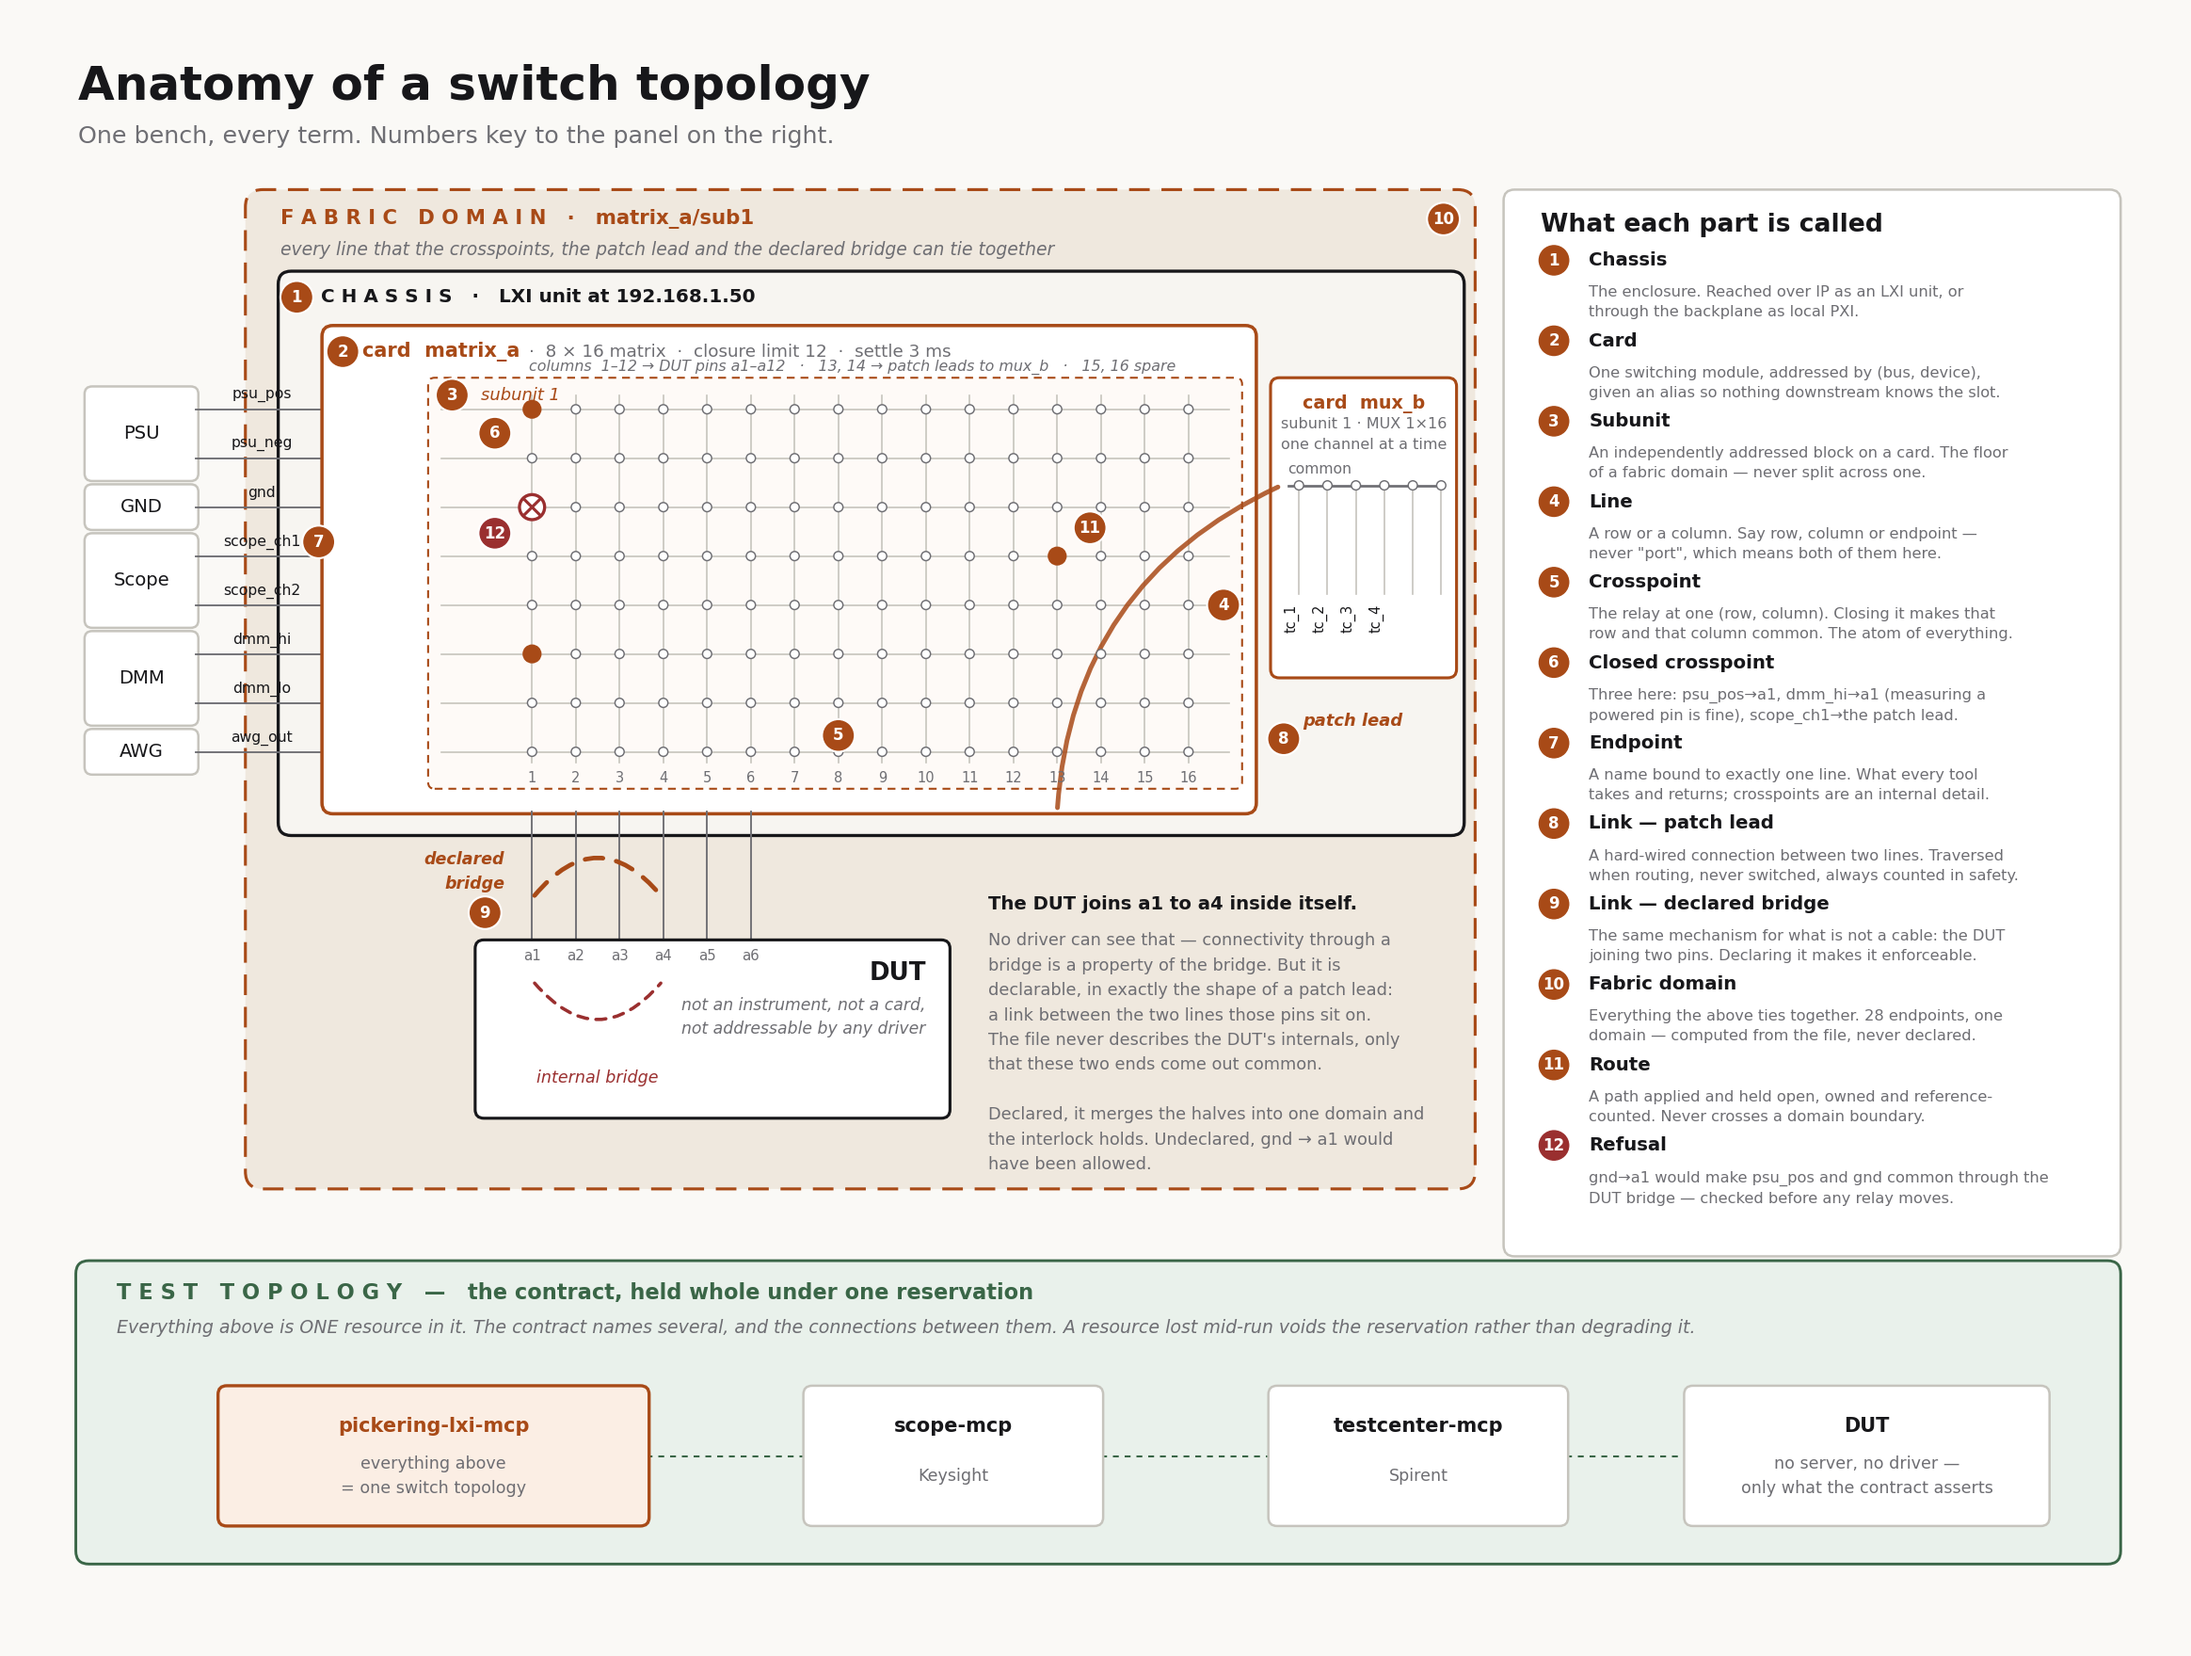
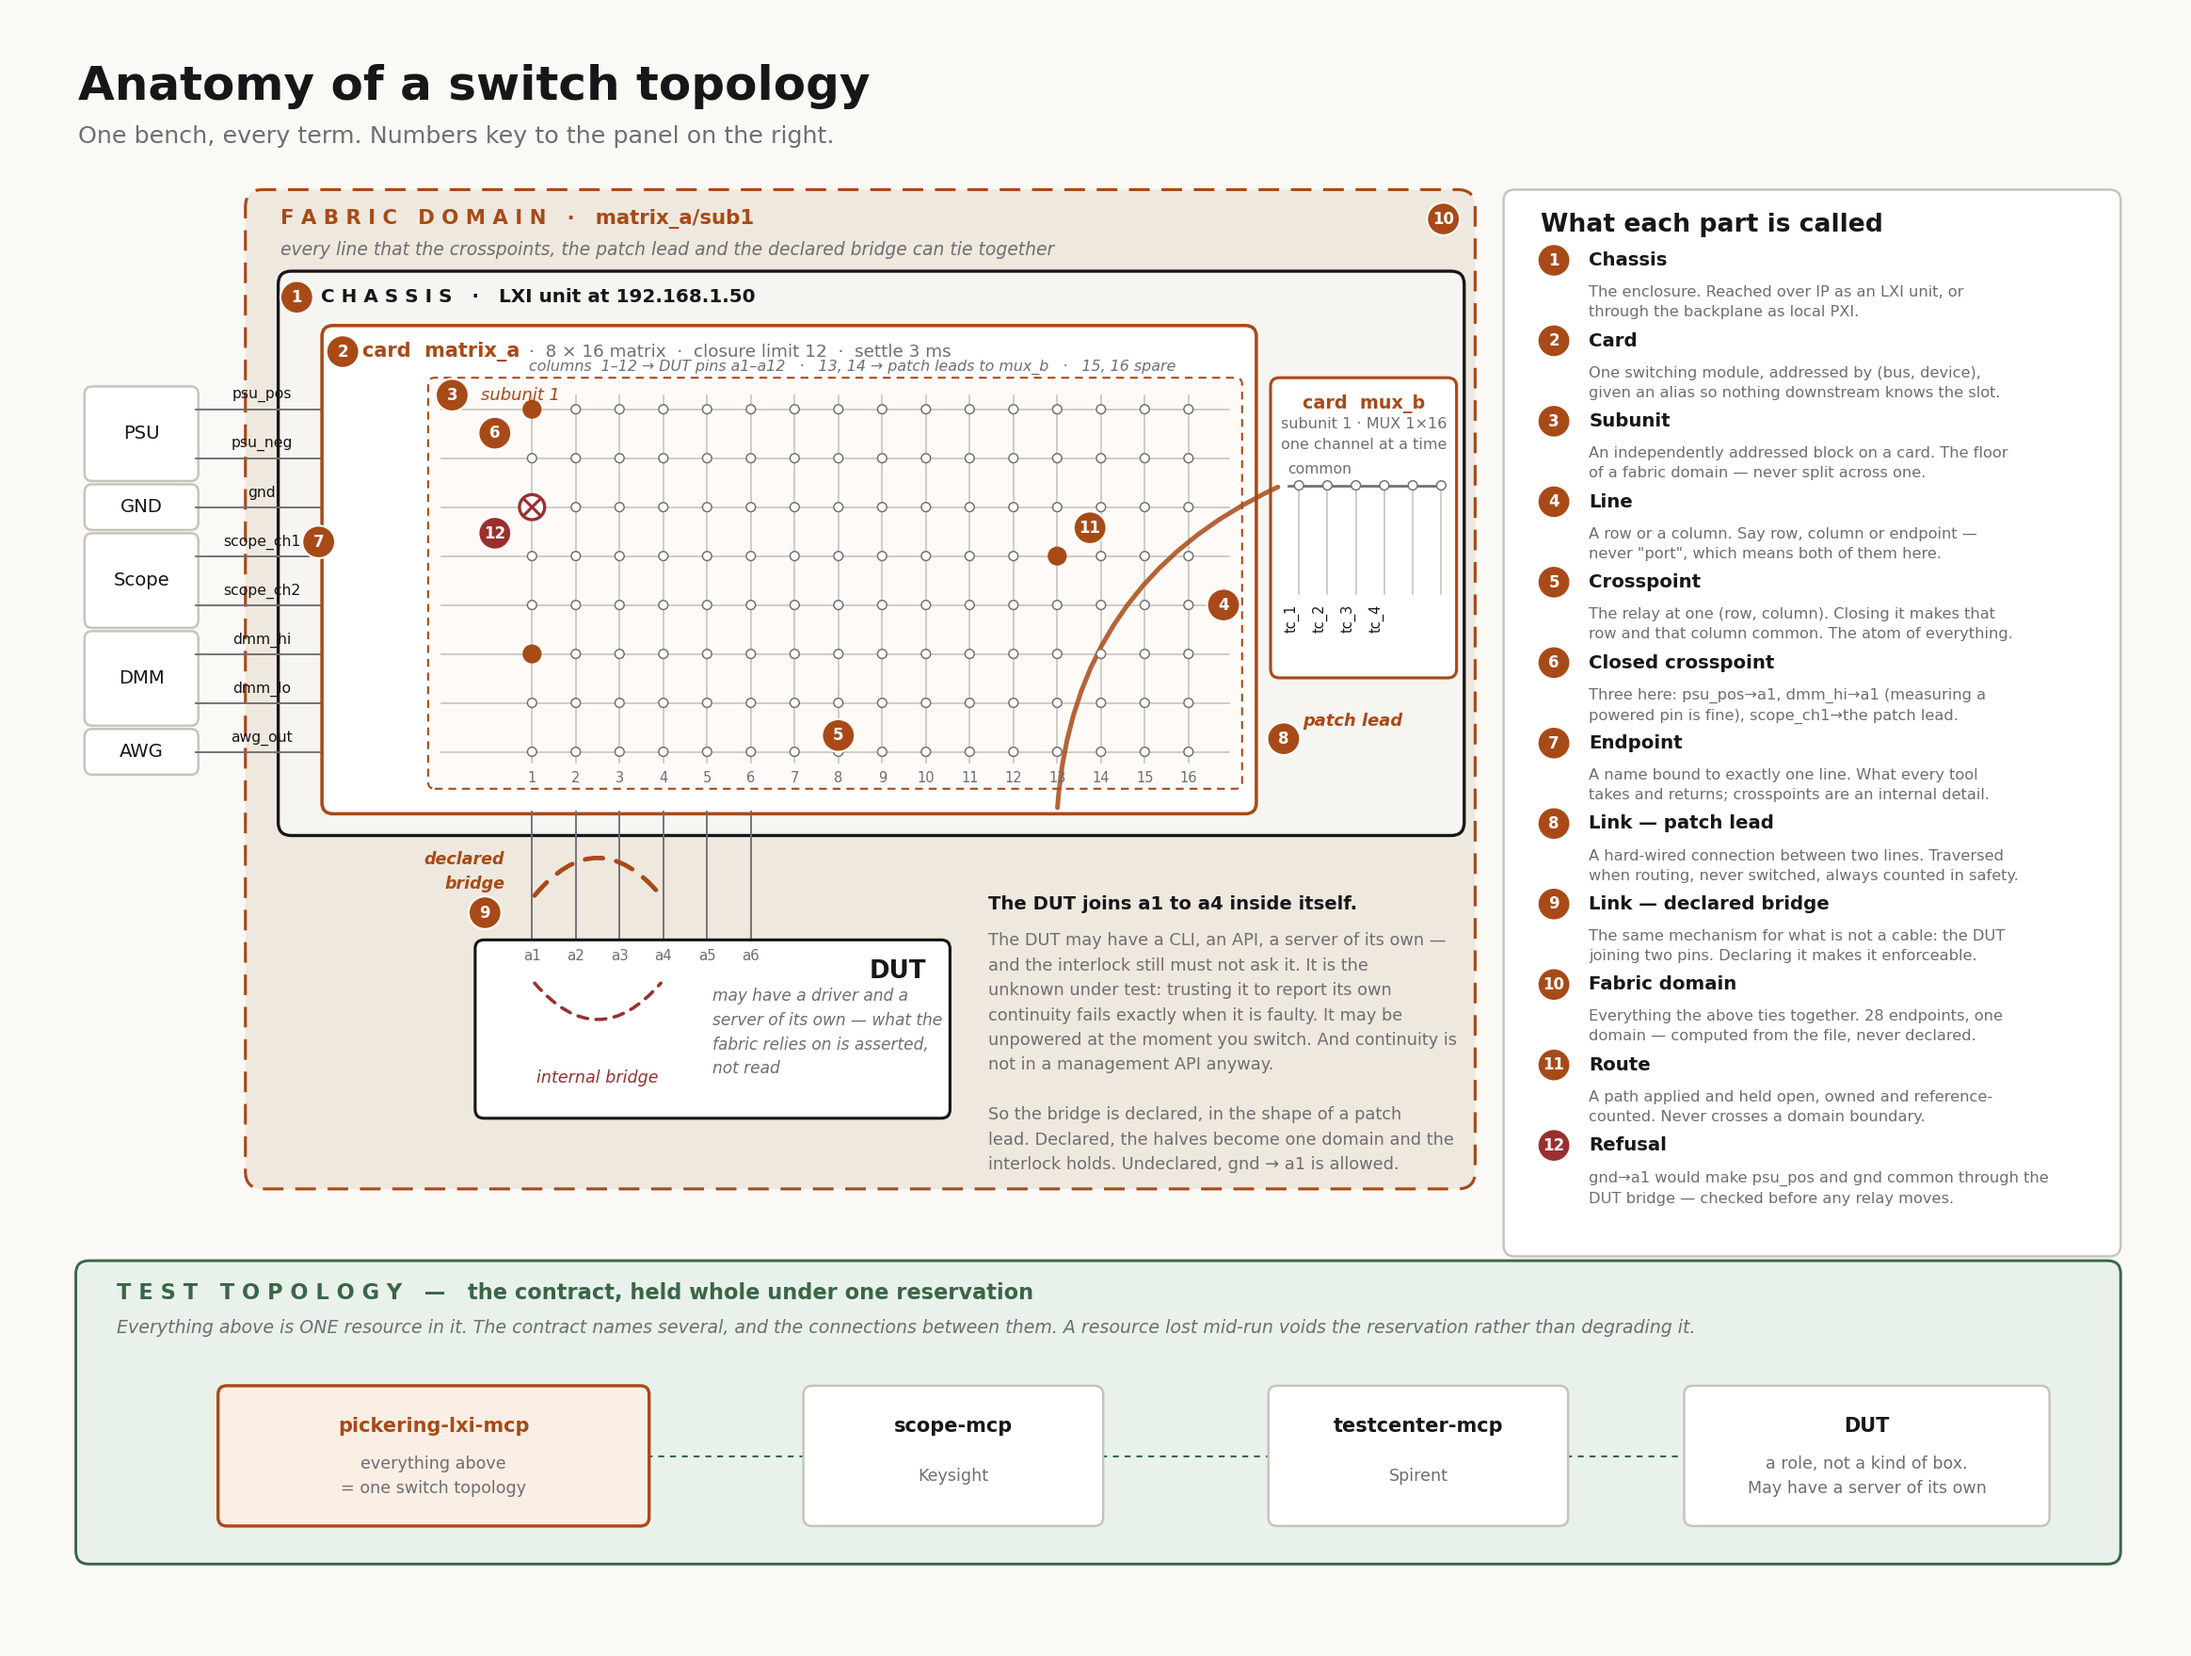
A DUT is a role, not an unreachable box; say asserted rather than unknowable
The figure claimed a DUT was "not an instrument, not a card, not addressable by
any driver". That is wrong, and wrong in a way that matters for a network lab
where the DUT is a switch with a CLI, an API and very possibly an MCP server of
its own.

Two corrections.

DUT is a role in a contract, not a class of device. The same box is a DUT this
week and part of the fixture next week. It can be a leased resource like any
other.

And what is actually special about it is not reachability but trust. The
interlock must not ask the DUT about its own continuity, for three reasons that
survive the DUT having a perfectly good API:

  circularity    the DUT is the unknown under test, so an interlock that trusts
                 its self-report fails exactly when the DUT is faulty, which is
                 the case it exists for

  availability   it may be unpowered, crashed or mid-boot at the moment you
                 switch, and those are states you switch into deliberately

  scope          continuity between two pins is not in a management API; "show
                 interface" does not say pin 3 is DC-continuous with pin 7

So the interlock is local, synchronous and offline by construction, and what it
knows about anything that is not a switch is asserted. That is what "only what
the contract asserts" was reaching for: not that the DUT is unreachable, but
that the facts the fabric's safety rests on are written down by a person rather
than read from a device.
[…]

Changed region(s): [[0.3093, 0.5526, 0.6495, 0.7061], [0.8041, 0.8596, 0.8969, 0.921]]

diff --git a/src/pickering_lxi_mcp/session.py b/src/pickering_lxi_mcp/session.py
@@ -316,6 +316,21 @@ class ChassisSession:
         On the simulator this is trivially true, which is the point: the same
         call against real hardware is what catches a topology written for last
         quarter's rack.
+
+        It also reports its own blind spot, which matters more than the checks.
+        A topology contains two kinds of fact:
+
+        *Verified* facts are read back from the driver -- which cards are there,
+        how big each subunit is, which crosspoints are closed. A wrong one is
+        caught here.
+
+        *Asserted* facts are declared by whoever wrote the file and taken on
+        trust -- that a cable runs between these two lines, that the DUT joins
+        these two pins, that this pair must never meet. No driver can confirm
+        any of them: a wire is not a register. They are load-bearing safety
+        infrastructure that nothing verifies, so a report that listed only what
+        it checked would leave the reader more confident than the evidence
+        allows.
         """
 
         actual = {card.alias: card for card in self.backend.cards()}
@@ -342,7 +357,38 @@ class ChassisSession:
             problems.append(f"card {alias!r} is in the chassis but not in the topology")
 
         problems.extend(self._vacuous_rules())
-        return {"ok": not problems, "problems": problems}
+        return {
+            "ok": not problems,
+            "problems": problems,
+            "verified": [
+                f"{len(self.topology.cards)} card(s) present and the right shape",
+                "every subunit's rows and columns match what the driver reports",
+            ],
+            "asserted": self._asserted_facts(),
+        }
+
+    def _asserted_facts(self) -> list[str]:
+        """What this topology takes on trust, stated so nobody mistakes it for checked."""
+
+        notes: list[str] = []
+        if self.topology.links:
+            notes.append(
+                f"{len(self.topology.links)} declared link(s) — a cable or a bridge inside "
+                "another device. No driver can confirm one; if a real link is missing here, "
+                "the interlock reasons over a fixture less connected than the rack."
+            )
+        if self.policy.forbidden_pairs:
+            notes.append(
+                f"{len(self.policy.forbidden_pairs)} forbidden pair(s) — the safety rules "
+                "themselves are a claim about what would damage this fixture, not a "
+                "measurement of it."
+            )
+        notes.append(
+            f"{len(self.topology.endpoints)} endpoint name(s) — that a given line is wired to "
+            "the instrument or pin the name says. The driver reports lines, never what is on "
+            "the other end of them."
+        )
+        return notes
 
     def _vacuous_rules(self) -> list[str]:
         """Safety rules that can never fire, which is almost always a wiring error.

diff --git a/docs/switch-topology-anatomy.py b/docs/switch-topology-anatomy.py
@@ -117,9 +117,9 @@ tag(11.32, 8.02, 8)
 for i in range(6):
     ax.add_line(Line2D([col_x(i), col_x(i)], [7.35, 6.15], color=MUTED, lw=0.9, zorder=3))
 rbox(3.95, 4.55, 8.25, 6.15, edge=INK, fill=WHITE, lw=1.5, r=0.08, z=4)
-txt(8.05, 5.86, "DUT", 12.5, INK, weight="bold", ha="right")
-txt(8.05, 5.46, "not an instrument, not a card,\nnot addressable by any driver", 8.3, MUTED,
-    ha="right", style="italic")
+txt(8.05, 5.88, "DUT", 12.5, INK, weight="bold", ha="right")
+txt(6.10, 5.32, "may have a driver and a\nserver of its own — what the\nfabric relies on is asserted,\nnot read", 8.2, MUTED,
+    ha="left", va="center", style="italic")
 for i in range(6):
     txt(col_x(i), 6.02, f"a{i+1}", 7.2, MUTED, ha="center")
 ax.add_patch(FancyArrowPatch((col_x(0), 5.80), (col_x(3), 5.80), arrowstyle="-",
@@ -135,15 +135,15 @@ tag(4.02, 6.42, 9)
 
 txt(8.62, 6.58, "The DUT joins a1 to a4 inside itself.", 9.4, INK, va="top", weight="bold")
 txt(8.62, 6.24,
-    "No driver can see that — connectivity through a\n"
-    "bridge is a property of the bridge. But it is\n"
-    "declarable, in exactly the shape of a patch lead:\n"
-    "a link between the two lines those pins sit on.\n"
-    "The file never describes the DUT's internals, only\n"
-    "that these two ends come out common.\n\n"
-    "Declared, it merges the halves into one domain and\n"
-    "the interlock holds. Undeclared, gnd → a1 would\n"
-    "have been allowed.",
+    "The DUT may have a CLI, an API, a server of its own —\n"
+    "and the interlock still must not ask it. It is the\n"
+    "unknown under test: trusting it to report its own\n"
+    "continuity fails exactly when it is faulty. It may be\n"
+    "unpowered at the moment you switch. And continuity is\n"
+    "not in a management API anyway.\n\n"
+    "So the bridge is declared, in the shape of a patch\n"
+    "lead. Declared, the halves become one domain and the\n"
+    "interlock holds. Undeclared, gnd → a1 is allowed.",
     8.5, MUTED, va="top", ls=1.6)
 
 # ── legend ───────────────────────────────────────────────────────────────
@@ -182,7 +182,7 @@ for cx, w, name, sub, hot in (
     (3.55, 3.9, "pickering-lxi-mcp", "everything above\n= one switch topology", True),
     (8.30, 2.7, "scope-mcp", "Keysight", False),
     (12.55, 2.7, "testcenter-mcp", "Spirent", False),
-    (16.65, 3.3, "DUT", "no server, no driver —\nonly what the contract asserts", False)):
+    (16.65, 3.3, "DUT", "a role, not a kind of box.\nMay have a server of its own", False)):
     rbox(cx - w/2, 0.80, cx + w/2, 2.05, edge=ACC if hot else LINE,
          fill=ACCF if hot else WHITE, lw=1.6 if hot else 1.2, r=0.08, z=3)
     txt(cx, 1.70, name, 10, ACC if hot else INK, weight="bold", ha="center")

diff --git a/tests/test_session.py b/tests/test_session.py
@@ -173,7 +173,20 @@ def test_plan_is_a_dry_run(session):
 
 
 def test_verify_topology_agrees_with_the_simulator(session):
-    assert session.verify_topology() == {"ok": True, "problems": []}
+    report = session.verify_topology()
+    assert report["ok"] is True
+    assert report["problems"] == []
+
+
+def test_verify_topology_reports_what_it_could_not_check(session):
+    """A report listing only its checks would leave a reader over-confident."""
+    report = session.verify_topology()
+    assert report["verified"], "it says what it did confirm"
+
+    asserted = " ".join(report["asserted"])
+    assert "declared link" in asserted, "a wire is not a register"
+    assert "forbidden pair" in asserted, "the rules are a claim, not a measurement"
+    assert "endpoint name" in asserted, "the driver never sees what a line is wired to"
 
 
 def test_verify_topology_notices_a_rack_that_moved_on(bench):

diff --git a/tests/test_fabric_domains.py b/tests/test_fabric_domains.py
@@ -237,7 +237,9 @@ def make_session(topology):
 
 
 def test_the_shipped_topology_declares_no_vacuous_rules(session):
-    assert session.verify_topology() == {"ok": True, "problems": []}
+    report = session.verify_topology()
+    assert report["ok"] is True
+    assert report["problems"] == []
 
 
 def test_a_rule_that_can_never_fire_is_reported():

diff --git a/GLOSSARY.md b/GLOSSARY.md
@@ -64,6 +64,11 @@ Shortest path by number of closures, because relay closures are the wear item.
 **Route** — a SwitchPath that has been applied and is being held open, with an owner and an id.
 Route ids are undirected: `route_id("a","b") == route_id("b","a")`, rendered `a<->b`.
 
+**DUT** — the thing under test. A *role in a contract*, not a class of device: the same box is a
+DUT this week and part of the fixture next week. It may perfectly well have a CLI, an API and an
+MCP server of its own, and be a leased resource like any other. What it is not is a **source of
+truth for the interlock** — see *asserted* below.
+
 **Fabric domain** *(coined here)* — a set of lines that can become electrically common with each
 other. Formally: a connected component of the switch graph with *every* crosspoint treated as
 closable, not merely the ones closed now. This is the unit that must be leased, locked and
@@ -119,6 +124,32 @@ model fills in from context; a fixed string is something it has to mean.
 
 **Plan** — a dry run. Computes the path and runs the interlocks against it, switches nothing,
 needs no reservation. The tool an agent should reach for first.
+
+**Asserted** vs **verified** — the two kinds of fact a topology contains, and the more useful
+distinction than "does this device have a driver".
+
+*Verified* facts are read back from the driver: which cards are present, how big each subunit is,
+which crosspoints are closed. `verify_topology` catches a wrong one.
+
+*Asserted* facts are declared by whoever wrote the file and taken on trust: that a cable runs
+between these two lines, that the DUT joins these two pins, that this pair must never meet. **No
+driver can confirm any of them — a wire is not a register.** They are load-bearing safety
+infrastructure that nothing checks, so `verify_topology` reports them explicitly rather than
+letting a clean result imply more than it means.
+
+Why the DUT's own API does not fix this, even when it has one:
+
+* **Circularity.** The DUT is the unknown under test. An interlock that trusts it to report its own
+  continuity fails exactly when the DUT is faulty — which is the case it exists for.
+* **Availability.** It may be unpowered, crashed or mid-boot at the moment you switch. Those are
+  states you deliberately switch into.
+* **Scope.** Electrical continuity between two pins is not in a management API. "show interface"
+  does not tell you that pin 3 is DC-continuous with pin 7.
+
+So the interlock is local, synchronous and offline by construction, and what it knows about
+anything that is not a switch is asserted. That is the whole meaning of *only what the contract
+asserts*: not that the DUT is unreachable, but that the facts the fabric's safety depends on come
+from a human writing them down, not from asking the device.
 
 **Violation** vs **refusal** — a *violation* is a rule broken by a state (`describe_violations`
 lists all of them, for a state someone else produced). A *refusal* is a rule that stopped an
